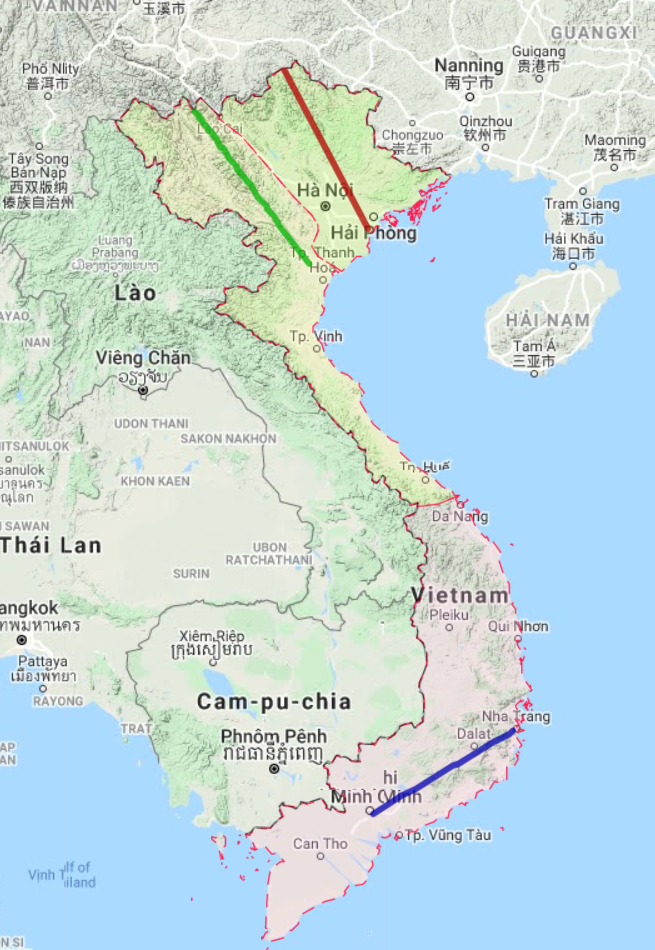
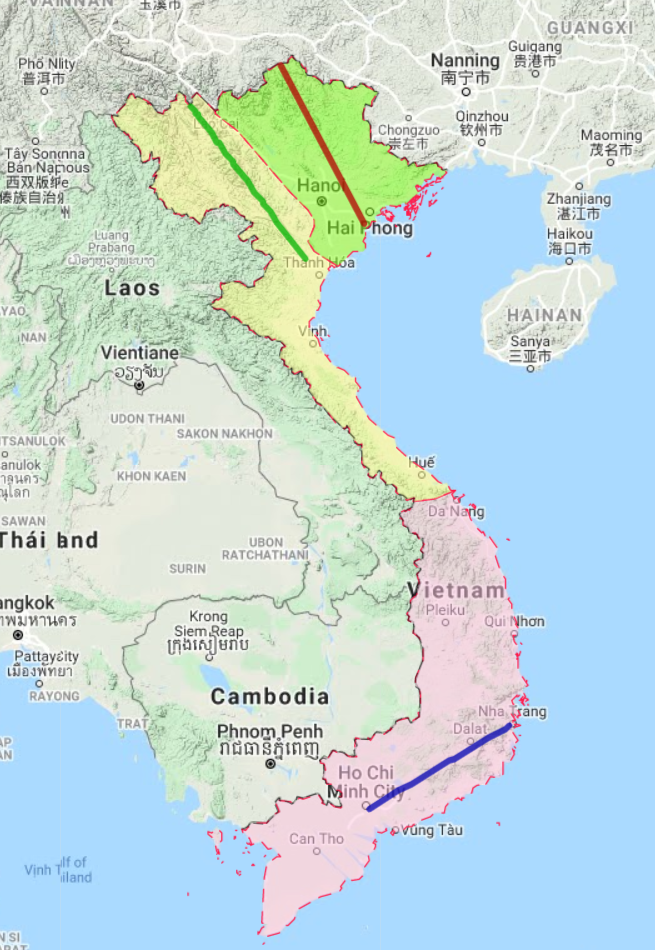
Atlas_VietNam

diff --git a/bandochuyende/giaothong/MapScript.js b/bandochuyende/giaothong/MapScript.js
@@ -4,13 +4,11 @@ var op_street = L.tileLayer.provider("OpenStreetMap"),
     CartoDB = L.tileLayer.provider("CartoDB.Voyager"),
     Hydda_base = L.tileLayer.provider("Hydda.Base");
 
-/*---- Đọc WMS Geosever ----*/
-/*var base = L.tileLayer.wms('http://localhost:8080/geoserver/cite/wms?', {
-    layers: 'tn_hanhchinh',
-    tiled: true,
-    format: 'image/png',
-    transparent: true
-});*/
+/*---- Base Việt Bản đồ ----*/
+var viet_bando = L.tileLayer('http://images.vietbando.com/ImageLoader/GetImage.ashx?Ver=2016&LayerIds=VBD&X={x}&Y={y}&Level={z}', {
+    attribution: 'Map tiles by Vietbando',
+    minZoom: 0
+});
 
 $.getJSON("../../../WebAtlas_VietNam_data/giaothong/spatial_data/sanbay.geojson", function (sanbay) {
     $.getJSON("../../../WebAtlas_VietNam_data/giaothong/spatial_data/cangbien.geojson", function (cangbien) {
@@ -402,7 +400,8 @@ $.getJSON("../../../WebAtlas_VietNam_data/giaothong/spatial_data/sanbay.geojson"
                                         }
                                     });
 
-                                    CartoDB.addTo(map);
+                                    viet_bando.addTo(map);
+                                    //CartoDB.addTo(map);
                                     view_vietnam_base.addTo(map);
                                     view_biengioi.addTo(map);
                                     view_ranhgioi_tinh.addTo(map);

diff --git a/bandochuyende/kinhte/MapScript.js b/bandochuyende/kinhte/MapScript.js
@@ -4,13 +4,11 @@ var op_street = L.tileLayer.provider("OpenStreetMap"),
     CartoDB = L.tileLayer.provider("CartoDB.Voyager"),
     Hydda_base = L.tileLayer.provider("Hydda.Base");
 
-/*---- Đọc WMS Geosever ----*/
-/*var base = L.tileLayer.wms('http://localhost:8080/geoserver/cite/wms?', {
-    layers: 'tn_hanhchinh',
-    tiled: true,
-    format: 'image/png',
-    transparent: true
-});*/
+/*---- Base Việt Bản đồ ----*/
+var viet_bando = L.tileLayer('http://images.vietbando.com/ImageLoader/GetImage.ashx?Ver=2016&LayerIds=VBD&X={x}&Y={y}&Level={z}', {
+    attribution: 'Map tiles by Vietbando',
+    minZoom: 0
+});
 
 $.getJSON("../../../WebAtlas_VietNam_data/kinhte/spatial_data/cangbien.geojson", function (cangbien) {
     $.getJSON("../../../WebAtlas_VietNam_data/kinhte/spatial_data/cuakhau.geojson", function (cuakhau) {
@@ -353,7 +351,8 @@ $.getJSON("../../../WebAtlas_VietNam_data/kinhte/spatial_data/cangbien.geojson",
                                 }
                             });
 
-                            Hydda_base.addTo(map);
+                            viet_bando.addTo(map);
+                            //Hydda_base.addTo(map);
                             view_ranhgioi_tinh.addTo(map);
                             view_biengioi.addTo(map);
                             view_vung_kinh_te.addTo(map);

diff --git a/bandochuyende/thonhuong/MapScript.js b/bandochuyende/thonhuong/MapScript.js
@@ -4,13 +4,11 @@ var op_street = L.tileLayer.provider("OpenStreetMap"),
     CartoDB = L.tileLayer.provider("CartoDB.Voyager"),
     Hydda_base = L.tileLayer.provider("Hydda.Base");
 
-/*---- Đọc WMS Geosever ----*/
-/*var base = L.tileLayer.wms('http://localhost:8080/geoserver/cite/wms?', {
-    layers: 'tn_hanhchinh',
-    tiled: true,
-    format: 'image/png',
-    transparent: true
-});*/
+/*---- Base Việt Bản đồ ----*/
+var viet_bando = L.tileLayer('http://images.vietbando.com/ImageLoader/GetImage.ashx?Ver=2016&LayerIds=VBD&X={x}&Y={y}&Level={z}', {
+    attribution: 'Map tiles by Vietbando',
+    minZoom: 0
+});
 
 /*---- Dữ liệu Geojson ----*/
 //$.getJSON("../../../WebAtlas_VietNam_data/thonhuong/spatial_data/dat_vn.geojson", function (thonhuong) {
@@ -20,6 +18,7 @@ var op_street = L.tileLayer.provider("OpenStreetMap"),
         var map = L.map('mymap', {
                 center: [16.10, 106.60],
                 zoom: 6,
+                maxZoom: 8,
                 zoomControl: true
             }
         );
@@ -170,7 +169,8 @@ var op_street = L.tileLayer.provider("OpenStreetMap"),
             }
         });
 
-        Hydda_base.addTo(map);
+        viet_bando.addTo(map);
+        //Hydda_base.addTo(map);
         view_biengioi.addTo(map);
         view_thonhuong.addTo(map);
 

diff --git a/bandochuyende/hanhchinh/MapScript.js b/bandochuyende/hanhchinh/MapScript.js
@@ -5,12 +5,18 @@ var op_street = L.tileLayer.provider("OpenStreetMap"),
     Hydda_base = L.tileLayer.provider("Hydda.Base");
 
 /*---- Đọc WMS Geosever ----*/
-var base_vn = L.tileLayer.wms('http://localhost:8080/geoserver/vietnam_tinh_polygon/wms?', {
-    layers: 'gadm36_VNM_1',
+var base_vn = L.tileLayer.wms('http://opengis.vn:8080/geoserver/atlas_vietnam/wms?service=WMS', {
+    layers: 'atlas_vietnam:gadm36_vnm_1',
     tiled: true,
     format: 'image/png',
     opacity: 0.3,
     transparent: true
+});
+
+/*---- Base Việt Bản đồ ----*/
+var viet_bando = L.tileLayer('http://images.vietbando.com/ImageLoader/GetImage.ashx?Ver=2016&LayerIds=VBD&X={x}&Y={y}&Level={z}', {
+    attribution: 'Map tiles by Vietbando',
+    minZoom: 0
 });
 
 //$.getJSON("../../../WebAtlas_VietNam_data/hanhchinh/spatial_data/quoclo.geojson", function (quoclo) {
@@ -180,7 +186,8 @@ var base_vn = L.tileLayer.wms('http://localhost:8080/geoserver/vietnam_tinh_poly
                         }
                     }
 
-                    CartoDB.addTo(map);
+                    viet_bando.addTo(map);
+                    //CartoDB.addTo(map);
                     base_vn.addTo(map);
                     view_biengioi.addTo(map);
                     view_ranhgioi_tinh.addTo(map);

diff --git a/bandochuyende/diachatkhoangsan/MapScript.js b/bandochuyende/diachatkhoangsan/MapScript.js
@@ -4,13 +4,11 @@ var op_street = L.tileLayer.provider("OpenStreetMap"),
     CartoDB = L.tileLayer.provider("CartoDB.Voyager"),
     Hydda_base = L.tileLayer.provider("Hydda.Base");
 
-/*---- Đọc WMS Geosever ----*/
-/*var base = L.tileLayer.wms('http://localhost:8080/geoserver/cite/wms?', {
-    layers: 'tn_hanhchinh',
-    tiled: true,
-    format: 'image/png',
-    transparent: true
-});*/
+/*---- Base Việt Bản đồ ----*/
+var viet_bando = L.tileLayer('http://images.vietbando.com/ImageLoader/GetImage.ashx?Ver=2016&LayerIds=VBD&X={x}&Y={y}&Level={z}', {
+    attribution: 'Map tiles by Vietbando',
+    minZoom: 0
+});
 
 /*** Symbol mỏ Dầu khí ***/
 var oil = L.icon({
@@ -530,7 +528,8 @@ $.getJSON("../../../WebAtlas_VietNam_data/diachatkhoangsan/spatial_data/mo_khoan
                                         }
                                     });
 
-                                    CartoDB.addTo(map);
+                                    viet_bando.addTo(map);
+                                    //CartoDB.addTo(map);
                                     view_biengioi.addTo(map);
                                     view_nendiachat.addTo(map);
                                     //view_betramtich.addTo(map);

diff --git a/bandochuyende/nongnghiep/lua_MapScript.js b/bandochuyende/nongnghiep/lua_MapScript.js
@@ -4,13 +4,11 @@ var op_street = L.tileLayer.provider("OpenStreetMap"),
     CartoDB = L.tileLayer.provider("CartoDB.Voyager"),
     Hydda_base = L.tileLayer.provider("Hydda.Base");
 
-/*---- Đọc WMS Geosever ----*/
-/*var base = L.tileLayer.wms('http://localhost:8080/geoserver/cite/wms?', {
-    layers: 'tn_hanhchinh',
-    tiled: true,
-    format: 'image/png',
-    transparent: true
-});*/
+/*---- Base Việt Bản đồ ----*/
+var viet_bando = L.tileLayer('http://images.vietbando.com/ImageLoader/GetImage.ashx?Ver=2016&LayerIds=VBD&X={x}&Y={y}&Level={z}', {
+    attribution: 'Map tiles by Vietbando',
+    minZoom: 0
+});
 
 /*---- Dữ liệu Geojson ----*/
 $.getJSON("../../../WebAtlas_VietNam_data/nongnghiep/spatial_data/total_nongnghiep_vung_18.geojson", function (nongnghiep_vung) {
@@ -331,7 +329,8 @@ $.getJSON("../../../WebAtlas_VietNam_data/nongnghiep/spatial_data/total_nongnghi
                         }
                     });
 
-                    Hydda_base.addTo(map);
+                    viet_bando.addTo(map);
+                    //Hydda_base.addTo(map);
                     view_biengioi.addTo(map);
                     view_dtlua.addTo(map);
                     view_ranhgioi_tinh.addTo(map);

diff --git a/bandochuyende/dulich/MapScript.js b/bandochuyende/dulich/MapScript.js
@@ -4,13 +4,11 @@ var op_street = L.tileLayer.provider("OpenStreetMap"),
     CartoDB = L.tileLayer.provider("CartoDB.Voyager"),
     Hydda_base = L.tileLayer.provider("Hydda.Base");
 
-/*---- Đọc WMS Geosever ----*/
-/*var base = L.tileLayer.wms('http://localhost:8080/geoserver/cite/wms?', {
-    layers: 'tn_hanhchinh',
-    tiled: true,
-    format: 'image/png',
-    transparent: true
-});*/
+/*---- Base Việt Bản đồ ----*/
+var viet_bando = L.tileLayer('http://images.vietbando.com/ImageLoader/GetImage.ashx?Ver=2016&LayerIds=VBD&X={x}&Y={y}&Level={z}', {
+    attribution: 'Map tiles by Vietbando',
+    minZoom: 0
+});
 
 /*---- Bộ Symbol các loại hình du lịch ----*/
 var trees = L.icon({
@@ -442,7 +440,8 @@ $.getJSON("../../../WebAtlas_VietNam_data/dulich/spatial_data/diem_rung_khubaoto
                                 }
                             });
 
-                            Hydda_base.addTo(map);
+                            viet_bando.addTo(map);
+                            //Hydda_base.addTo(map);
                             view_biengioi.addTo(map);
                             view_vungdulich.addTo(map);
                             view_lehoi.addTo(map);

diff --git a/bandochuyende/nongnghiep/channuoi_MapScript.js b/bandochuyende/nongnghiep/channuoi_MapScript.js
@@ -4,13 +4,11 @@ var op_street = L.tileLayer.provider("OpenStreetMap"),
     CartoDB = L.tileLayer.provider("CartoDB.Voyager"),
     Hydda_base = L.tileLayer.provider("Hydda.Base");
 
-/*---- Đọc WMS Geosever ----*/
-/*var base = L.tileLayer.wms('http://localhost:8080/geoserver/cite/wms?', {
-    layers: 'tn_hanhchinh',
-    tiled: true,
-    format: 'image/png',
-    transparent: true
-});*/
+/*---- Base Việt Bản đồ ----*/
+var viet_bando = L.tileLayer('http://images.vietbando.com/ImageLoader/GetImage.ashx?Ver=2016&LayerIds=VBD&X={x}&Y={y}&Level={z}', {
+    attribution: 'Map tiles by Vietbando',
+    minZoom: 0
+});
 
 /*---- Dữ liệu Geojson ----*/
 $.getJSON("../../../WebAtlas_VietNam_data/nongnghiep/spatial_data/total_nongnghiep_18.geojson", function (nongnghiep_pois) {
@@ -348,7 +346,8 @@ $.getJSON("../../../WebAtlas_VietNam_data/nongnghiep/spatial_data/total_nongnghi
                     }
                 });
 
-                Hydda_base.addTo(map);
+                viet_bando.addTo(map);
+                //Hydda_base.addTo(map);
                 view_biengioi.addTo(map);
                 view_ranhgioi_tinh.addTo(map);
                 view_channuoichart.addTo(map);

diff --git a/bandochuyende/thuysan/MapScript.js b/bandochuyende/thuysan/MapScript.js
@@ -4,13 +4,11 @@ var op_street = L.tileLayer.provider("OpenStreetMap"),
     CartoDB = L.tileLayer.provider("CartoDB.Voyager"),
     Hydda_base = L.tileLayer.provider("Hydda.Base");
 
-/*---- Đọc WMS Geosever ----*/
-/*var base = L.tileLayer.wms('http://localhost:8080/geoserver/cite/wms?', {
-    layers: 'tn_hanhchinh',
-    tiled: true,
-    format: 'image/png',
-    transparent: true
-});*/
+/*---- Base Việt Bản đồ ----*/
+var viet_bando = L.tileLayer('http://images.vietbando.com/ImageLoader/GetImage.ashx?Ver=2016&LayerIds=VBD&X={x}&Y={y}&Level={z}', {
+    attribution: 'Map tiles by Vietbando',
+    minZoom: 0
+});
 
 var fish = L.icon({
     iconUrl: 'symbols/fish_symbol.png',
@@ -386,7 +384,8 @@ $.getJSON("../../../WebAtlas_VietNam_data/thuysan/spatial_data/bai_ca.geojson", 
                                         }
                                     });
 
-                                    Hydda_base.addTo(map);
+                                    viet_bando.addTo(map);
+                                    //Hydda_base.addTo(map);
                                     view_biengioi.addTo(map);
 
                                     view_slthuysan.addTo(map);

diff --git a/bandochuyende/nongnghiep/caycongnghiep_MapScript.js b/bandochuyende/nongnghiep/caycongnghiep_MapScript.js
@@ -4,13 +4,11 @@ var op_street = L.tileLayer.provider("OpenStreetMap"),
     CartoDB = L.tileLayer.provider("CartoDB.Voyager"),
     Hydda_base = L.tileLayer.provider("Hydda.Base");
 
-/*---- Đọc WMS Geosever ----*/
-/*var base = L.tileLayer.wms('http://localhost:8080/geoserver/cite/wms?', {
-    layers: 'tn_hanhchinh',
-    tiled: true,
-    format: 'image/png',
-    transparent: true
-});*/
+/*---- Base Việt Bản đồ ----*/
+var viet_bando = L.tileLayer('http://images.vietbando.com/ImageLoader/GetImage.ashx?Ver=2016&LayerIds=VBD&X={x}&Y={y}&Level={z}', {
+    attribution: 'Map tiles by Vietbando',
+    minZoom: 0
+});
 
 /*---- Dữ liệu Geojson ----*/
 $.getJSON("../../../WebAtlas_VietNam_data/nongnghiep/spatial_data/total_nongnghiep_vung_18.geojson", function (nongnghiep_vung) {
@@ -310,7 +308,8 @@ $.getJSON("../../../WebAtlas_VietNam_data/nongnghiep/spatial_data/total_nongnghi
                         }
                     });
 
-                    Hydda_base.addTo(map);
+                    viet_bando.addTo(map);
+                    //Hydda_base.addTo(map);
                     view_biengioi.addTo(map);
                     view_ranhgioi_tinh.addTo(map);
 

diff --git a/bandochuyende/nongnghiep/MapScript.js b/bandochuyende/nongnghiep/MapScript.js
@@ -4,13 +4,11 @@ var op_street = L.tileLayer.provider("OpenStreetMap"),
     CartoDB = L.tileLayer.provider("CartoDB.Voyager"),
     Hydda_base = L.tileLayer.provider("Hydda.Base");
 
-/*---- Đọc WMS Geosever ----*/
-/*var base = L.tileLayer.wms('http://localhost:8080/geoserver/cite/wms?', {
-    layers: 'tn_hanhchinh',
-    tiled: true,
-    format: 'image/png',
-    transparent: true
-});*/
+/*---- Base Việt Bản đồ ----*/
+var viet_bando = L.tileLayer('http://images.vietbando.com/ImageLoader/GetImage.ashx?Ver=2016&LayerIds=VBD&X={x}&Y={y}&Level={z}', {
+    attribution: 'Map tiles by Vietbando',
+    minZoom: 0
+});
 
 /*---- Dữ liệu Geojson ----*/
 $.getJSON("../../../WebAtlas_VietNam_data/nongnghiep/spatial_data/nongnghiep_line.geojson", function (line_nn) {
@@ -291,7 +289,8 @@ $.getJSON("../../../WebAtlas_VietNam_data/nongnghiep/spatial_data/nongnghiep_lin
                     }
                 });
 
-                Hydda_base.addTo(map);
+                viet_bando.addTo(map);
+                //Hydda_base.addTo(map);
                 view_biengioi.addTo(map);
                 view_ht_sudungdat.addTo(map);
                 view_line_nn.addTo(map);

diff --git a/bandochuyende/khihau/MapScript.js b/bandochuyende/khihau/MapScript.js
@@ -4,13 +4,11 @@ var op_street = L.tileLayer.provider("OpenStreetMap"),
     CartoDB = L.tileLayer.provider("CartoDB.Voyager"),
     Hydda_base = L.tileLayer.provider("Hydda.Base");
 
-/*---- Đọc WMS Geosever ----*/
-/*var base = L.tileLayer.wms('http://localhost:8080/geoserver/cite/wms?', {
-    layers: 'tn_hanhchinh',
-    tiled: true,
-    format: 'image/png',
-    transparent: true
-});*/
+/*---- Base Việt Bản đồ ----*/
+var viet_bando = L.tileLayer('http://images.vietbando.com/ImageLoader/GetImage.ashx?Ver=2016&LayerIds=VBD&X={x}&Y={y}&Level={z}', {
+    attribution: 'Map tiles by Vietbando',
+    minZoom: 0
+});
 
 /*---- Dữ liệu Geojson ----*/
 //$.getJSON("../../../WebAtlas_VietNam_data/khihau/spatial_data/doam_vung.geojson", function (doam_vung) {
@@ -389,7 +387,8 @@ var op_street = L.tileLayer.provider("OpenStreetMap"),
                         }
                     });
 
-                    CartoDB.addTo(map);
+                    viet_bando.addTo(map);
+                    //CartoDB.addTo(map);
                     view_biengioi.addTo(map);
                     view_phanvungkhihau.addTo(map);
                     //view_nhietdo.addTo(map);
